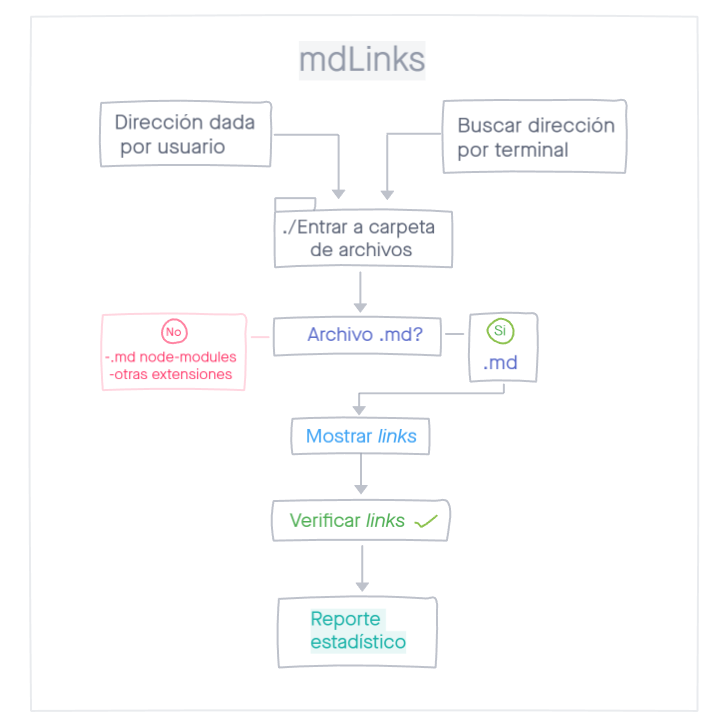
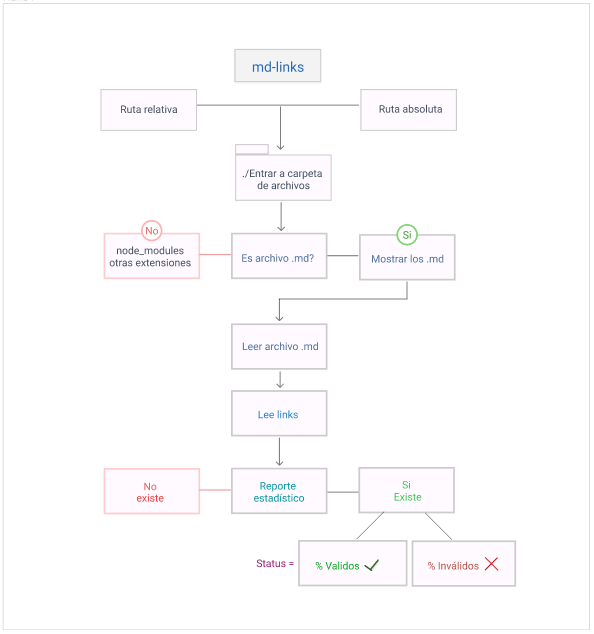
Arreglo final readme

diff --git a/README.md b/README.md
@@ -2,7 +2,7 @@
 
 ## Flujograma mdLinks
 
-https://projects.invisionapp.com/freehand/document/jDGfoWeWv
+https://www.figma.com/proto/gS9kWX4w8KSmwBusgLKcSE/Untitled?node-id=1%3A24&scaling=min-zoom
 ![md-links](./images/flujomdlinks.webp)
 
 ## Historias de Usuario
@@ -18,7 +18,7 @@ https://projects.invisionapp.com/freehand/document/jDGfoWeWv
 
 Md-Links es una librería creada de node.js y desarrollada bajo el lenguaje JavaScript, con el propósito de leer archivos md y extraer los links que contienen dichos archivos, con esta librería el usuario podrá  encontrar los enlaces, validar su status y visualizar estádisticas respecto al total de links encontrados, validos y no validos.
 
-## Nombre Liberia 
+## Nombre Liberia
 
 get_my_md_links
 
